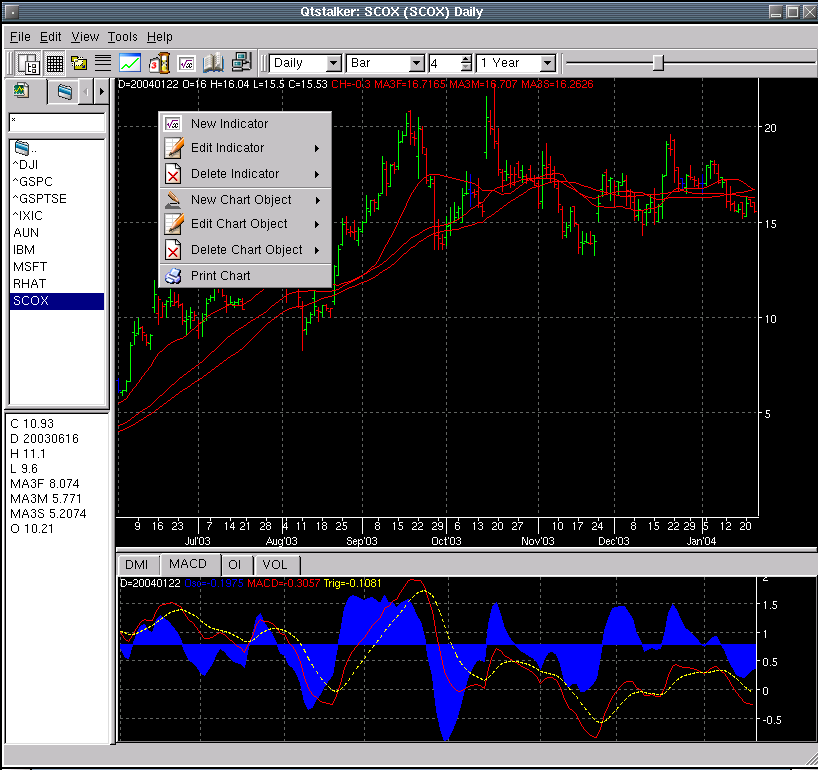
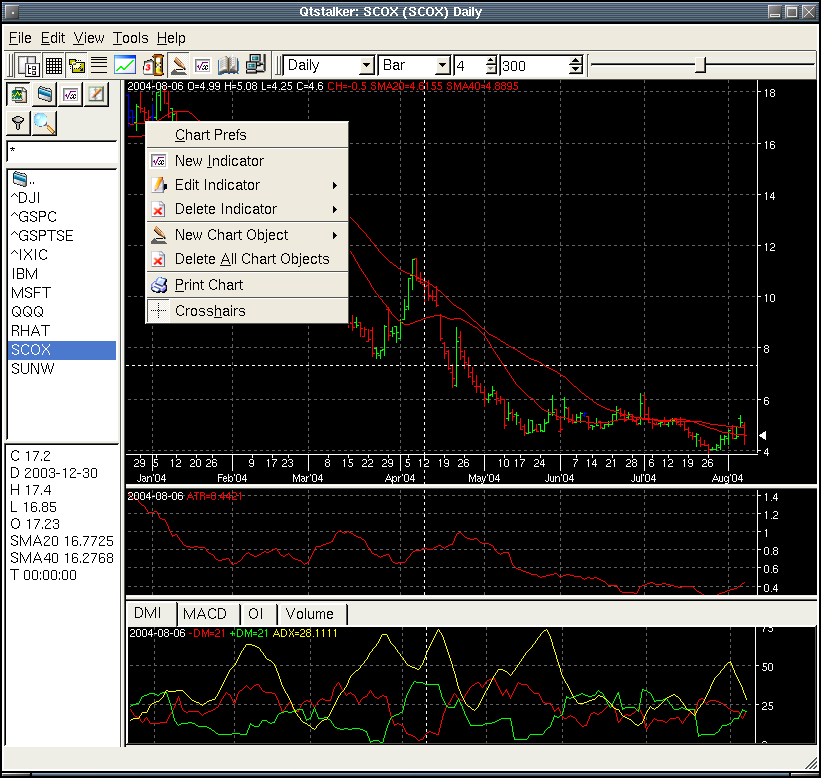
*** empty log message ***

diff --git a/docs/intro.html b/docs/intro.html
@@ -10,31 +10,47 @@
 <body xml:lang="en" lang="en">
 <h2><u>Introduction</u></h2>
 <p>
-Qtstalker is a user friendly Technical Analysis package for GNU/Linux. 
-Similar to commercial wares such as Metastock, Supercharts and Tradestation.
-Keeps to a lean, simple design for speed, portability, and low resource usage.
+Qtstalker is a user friendly Technical Analysis package for GNU/Linux.
+Similar to commercial wares such as Metastock, Supercharts and
+Tradestation.
+Keeps to a lean, simple design for speed, portability, and low resource
+usage.
 Because it uses a plugin model, Qtstalker can easily be extended.
 </p>
 <p>
-Qtstalker is 100% free software, distributed under the terms of the GNU GPL.
+Qtstalker is 100% free software, distributed under the terms of the GNU
+GPL.
 An active development community is continually adding new features.
-We appreciate your input towards creating a world-class GNU/Linux TA package.
+We appreciate your input towards creating a world-class GNU/Linux TA
+package.
 </p>
-
 <h3>Features:</h3>
 <ul>
-<li>A point-and-click object-oriented graphical user interface.</li>
-<li>Chart plugins include line, bar, candlestick, point and figure, and swing.</li>
-<li>Customizable colors. Logarithmic and linear arithmetic scaling. Scale to screen.</li>
-<li>Indicators plugins include MACD, MAs, Bollinger Bands, RSI, and dozens more.</li>
-<li>Chart drawing objects: trendlines, buy/sell arrows, horizontal and vertical lines, fibonacci retracement lines, text.</li>
-<li>Quote plugins download data from online sources such as Yahoo, CME, NYBOT.</li>
-<li>Data import plugins for plain-text CSV files and MySQL database.</li>
-<li>The "Plugin" architecture for quotes and indicators enables easy future extensibility.</li>
-<li>Daily, weekly and monthly chart compression (intra-day in development)</li>
-<li>Various data classes to support for investment types such as stocks, futures, indices, ratios and spreads.</li>
-<li>A back testing function allowing indicator performance tests using actual trading data.</li>
-<li>A very basic portfolio manager. Good for tracking open positions. (Suggestions welcome.)</li>
+  <li>A point-and-click object-oriented graphical user interface.</li>
+  <li>Chart plugins include line, bar, candlestick, point and figure,
+and swing.</li>
+  <li>Customizable colors. Logarithmic and linear arithmetic scaling.
+Scale to screen.</li>
+  <li>Indicators plugins include MACD, MAs, Bollinger Bands, RSI, and
+dozens more.</li>
+  <li>Chart drawing objects: trendlines, buy/sell arrows, horizontal
+and vertical lines, fibonacci retracement lines, text.</li>
+  <li>Quote plugins download data from online sources such as Yahoo,
+CME, NYBOT.</li>
+  <li>Data import plugins for plain-text CSV files and MySQL database.</li>
+  <li>The "Plugin" architecture for quotes and indicators enables easy
+future extensibility.</li>
+  <li>Daily, weekly and monthly chart compression (intra-day in
+development)</li>
+  <li>Various data classes to support for investment types such as
+stocks, futures, indices, ratios and spreads.</li>
+  <li>A back testing function allowing indicator performance tests
+using actual trading data.</li>
+  <li>A very basic portfolio manager. Good for tracking open positions.
+(Suggestions welcome.)</li>
+  <li>A Scanner that can scan the qtstalker database for charts that
+meet a user defined criteria.<br>
+  </li>
 </ul>
 </body>
 </html>

diff --git a/docs/quick.html b/docs/quick.html
@@ -13,24 +13,28 @@
   <li>Connect to the internet.</li>
   <li>Open the quotes dialog from the toolbar.</li>
   <li>Select the Yahoo plugin. Press the "New Chart" button. Click on
-the     "New Symbols" item in the list.</li>
+the "New Symbols" item in the list.</li>
   <li>Enter as many ticker symbols as you want separated by a space ie
-'RHAT     IBM MSFT'. When done, press the OK button. </li>
+'RHAT IBM MSFT'. When done, press the OK button.</li>
+  <li>Press the settings button. Select the start and end dates you
+want quotes to include and press OK when done.<br>
+  </li>
   <li>Press the update button, and the download will start. Depending
-on how     fast your connection is this could take anywhere from 10
-seconds to a few     minutes. The data will be imported into Qtstalker
+on how fast your connection is this could take anywhere from 10
+seconds to a few minutes. The data will be imported into Qtstalker
 when completed.</li>
   <li>Close the quotes dialog when download has completed. To load some
-charts, select the chart tab. You should     see a directory called
-"Stocks". Select the directory. A list of the    symbols you entered
+charts, select the chart panel button. You should see a directory
+called
+"Stocks". Select the directory. A list of the symbols you entered
 earlier will appear. Select a symbol to load by clicking on it.</li>
   <li>To add indicators, open the new indicator dialog from the toolbar
 and choose an indicator from the list. The indicator dialog will open,
 just press OK for the default settings. Depending on the indicator, it
 will show up either in the main chart or as a tab in the lower section
-of the     window. This should be enough to get you started for now,
-consult the     documentation and play with the functions to become
-familiar with how     Qtstalker works.</li>
+of the window. This should be enough to get you started for now,
+consult the documentation and play with the functions to become
+familiar with how Qtstalker works.</li>
 </ol>
 <p></p>
 <p></p>

diff --git a/docs/main.html b/docs/main.html
@@ -21,30 +21,24 @@ functions like chart types, bar spacing, grid, bars etc.</li>
     <ol>
     </ol>
   </li>
-  <li>The chart, groups, indicator, portfolio and backtesting function
-tabs. These
-tabs give you access to assorted functions that apply to each.</li>
+  <li>The chart, groups, indicator, portfolio and backtesting and
+scanner panel buttons. These buttons give you access to assorted
+functions that apply to each.</li>
   <ol>
-    <li>Chart tab.</li>
-    <li>Group tab.</li>
-    <li>Indicator tab.<br>
-    </li>
-    <li>Portfolio tab.</li>
-    <li>Backtest tab.<br>
-    </li>
   </ol>
   <li>Main chart. This is the main plot for Open, High, Low, Close data
 for every chart. Any indicators that apply to OHLC data will also be
 plotted here. eg Bollinger Bands, MA's etc.</li>
-  <li>Indicator chart. Any indicators that don't apply to the main
-chart will be plotted here. eg. MACD, RSI etc. Note that the
-indicators located here are tabbed.</li>
+  <li>Any stacked indicators are located under the main plot.<br>
+  </li>
+  <li>Indicator tabbar. Any indicators that don't apply to the main and
+not stacked will be plotted here. eg. MACD, RSI etc.<br>
+  </li>
 </ol>
 <p></p>
 <p>Here is a shot of our newest corporate spawn of satan... SCOX with a
-3 plot MA and a DMI, MACD, OI and VOL at the bottom.</p>
-<p><img src="main.png" title="" alt=""
- style="width: 822px; height: 777px;"><br>
+2 MA's, an ATR and a DMI, MACD, OI and VOL at the bottom.</p>
+<p><img style="width: 821px; height: 778px;" alt="" src="main.png"><br>
 </p>
 <br>
 </body>

diff --git a/src/Tester.cpp b/src/Tester.cpp
@@ -25,6 +25,7 @@
 #include <qfile.h>
 #include <qtextstream.h>
 #include <qfont.h>
+#include <qmessagebox.h>
 #include "Tester.h"
 
 Tester::Tester (Config *c, QString n) : QTabDialog (0, 0, FALSE)
@@ -940,6 +941,7 @@ void Tester::loadAlerts (int type)
   int loop;
   FormulaEdit *edit = 0;
   int delays = 0;
+  QString s;
   
   switch(type)
   {
@@ -947,26 +949,53 @@ void Tester::loadAlerts (int type)
       edit = enterLongEdit;
       enterLongAlerts.clear();
       delays = enterLongDelay->value();
+      s = tr("Enter long ");
       break;
     case 1:
       edit = exitLongEdit;
       exitLongAlerts.clear();
       delays = exitLongDelay->value();
+      s = tr("Exit long ");
       break;
     case 2:
       edit = enterShortEdit;
       enterShortAlerts.clear();
       delays = enterShortDelay->value();
+      s = tr("Enter short ");
       break;
     case 3:
       edit = exitShortEdit;
       exitShortAlerts.clear();
       delays = exitShortDelay->value();
+      s = tr("Exit short ");
       break;
     default:
       break;
   }
-
+  
+  bool cflag = FALSE;
+  for (loop = 0; loop < edit->getLines(); loop++)
+  {
+    QStringList l = QStringList::split(",", edit->getLine(loop), FALSE);
+    if (! l[0].compare("COMP"))
+    {
+      if (edit->getPlot(loop).toInt())
+      {
+        cflag = TRUE;
+	break;
+      }
+    }
+  }
+  
+  if (! cflag)
+  {
+    s.append(" no COMP step or COMP step not checked.");
+    QMessageBox::information(this,
+                             tr("Qtstalker: Error"),
+			     s);
+    return;
+  }
+  
   // open the CUS plugin   
   Plugin *plug = config->getPlugin(Config::IndicatorPluginPath, "CUS");
   if (! plug)

diff --git a/plugins/chart/Bar/Bars.cpp b/plugins/chart/Bar/Bars.cpp
@@ -186,9 +186,30 @@ void Bars::prefDialog (QWidget *)
     paintDownColor = dialog->getPaintDownColor();
     
     int loop;
+    bool flag = FALSE;
     formulaList.clear();
     for (loop = 0; loop < (int) dialog->getLines(); loop++)
+    {
       formulaList.append(dialog->getLine(loop));
+      
+      QStringList l = QStringList::split(",", formulaList[loop], FALSE);
+      if (! l[0].compare("COMP"))
+      {
+        QStringList l2 = QStringList::split("|", formulaList[loop], FALSE);
+        if (l2[1].toInt())
+          flag = TRUE;
+      }
+    }
+  
+    if (! flag)
+    {
+      QMessageBox::information(0,
+                               tr("Qtstalker: Error"),
+			       tr("No COMP step or COMP step not checked."));
+      saveFlag = TRUE;
+      delete dialog;
+      return;
+    }
         
     saveFlag = TRUE;
     emit draw();

diff --git a/plugins/chart/Line/Line.cpp b/plugins/chart/Line/Line.cpp
@@ -26,6 +26,7 @@
 #include <qtextstream.h>
 #include <qpainter.h>
 #include <qsettings.h>
+#include <qmessagebox.h>
 
 Line::Line ()
 {
@@ -100,9 +101,26 @@ void Line::prefDialog (QWidget *)
     if (! defaultFlag)
     {
       int loop;
+      bool flag = FALSE;
       formulaList.clear();
       for (loop = 0; loop < (int) dialog->getLines(); loop++)
+      {
         formulaList.append(dialog->getLine(loop));
+	
+        QStringList l = QStringList::split("|", formulaList[loop], FALSE);
+        if (l[1].toInt())
+          flag = TRUE;
+      }
+  
+      if (! flag)
+      {
+        QMessageBox::information(0,
+                                 tr("Qtstalker: Error"),
+			         tr("Line chart: no step checked to plot."));
+        delete dialog;
+        saveFlag = TRUE;
+        return;
+      }
     }
         
     saveFlag = TRUE;

diff --git a/plugins/indicator/CUS/CUS.cpp b/plugins/indicator/CUS/CUS.cpp
@@ -22,6 +22,7 @@
 #include "CUS.h"
 #include "CUSDialog.h"
 #include "Config.h"
+#include <qmessagebox.h>
 
 CUS::CUS ()
 {
@@ -96,6 +97,7 @@ int CUS::indicatorPrefDialog (QWidget *)
   {
     int max = dialog->getLines();
     int loop;
+    bool flag = FALSE;
     functionList.clear();
     plotList.clear();
     formulaList.clear();
@@ -104,6 +106,16 @@ int CUS::indicatorPrefDialog (QWidget *)
       plotList.append(dialog->getPlot(loop));
       formulaList.append(dialog->getLine(loop));
       functionList.append(dialog->getFunction(loop));
+      
+      if (plotList[loop].toInt())
+        flag = TRUE;
+    }
+    
+    if (! flag)
+    {
+      QMessageBox::information(0,
+                               tr("Qtstalker: Error"),
+			       tr("No step checked to plot."));
     }
     
     rc = TRUE;

diff --git a/src/Scanner.cpp b/src/Scanner.cpp
@@ -91,6 +91,27 @@ Scanner::~Scanner ()
 void Scanner::scan ()
 {
   int loop;
+  bool flag = FALSE;
+  for (loop = 0; loop < list->getLines(); loop++)
+  {
+    QStringList l = QStringList::split(",", list->getLine(loop), FALSE);
+    if (! l[0].compare("COMP"))
+    {
+      if (list->getPlot(loop).toInt())
+      {
+        flag = TRUE;
+	break;
+      }
+    }
+  }
+  
+  if (! flag)
+  {
+    QMessageBox::information(this,
+                             tr("Qtstalker: Error"),
+			     tr("No COMP step or COMP step not checked."));
+    return;
+  }
   
   // clear dir for scan symbols
   QDir dir;
